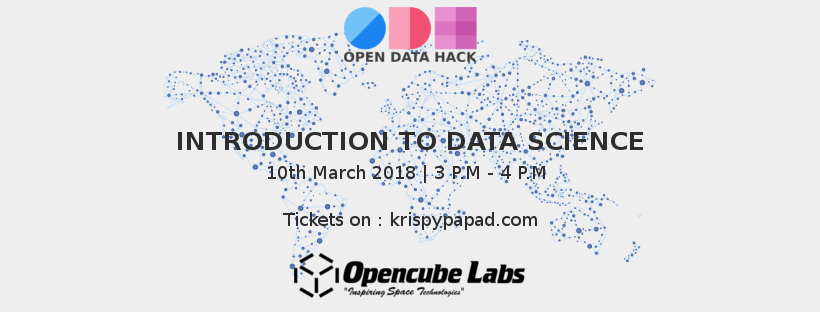
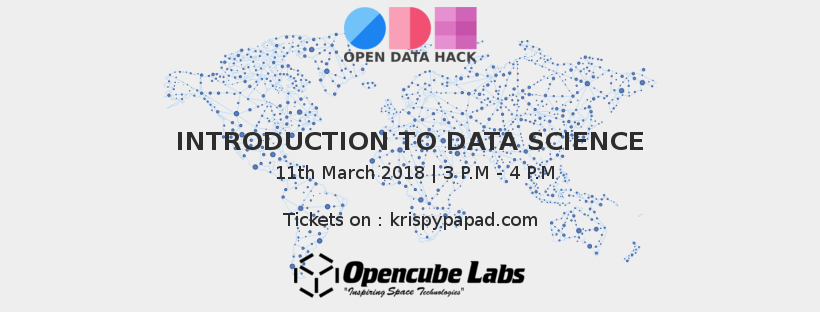
new events added

Changed region(s): [[0.3049, 0.5192, 0.6707, 0.5769]]

diff --git a/templates/ocl-arduino.html b/templates/ocl-arduino.html
@@ -70,7 +70,7 @@
               <div class="card" style="width: 100%;">
                 <div class="card-container" style="border-color: red; border-top: 15px;">
                   <h4><b>Getting started with Arduino</b></h4>
-                  <h4>10th Mar, 2018 | 9 A.M - 12 P.M</h4>
+                  <h4>11th Mar, 2018 | 9 A.M - 12 P.M</h4>
                   <h4><b>Venue :</b> Opencube Labs, Bangalore-24</h4>
                   <h4><b>Price : </b>₹399 onwards</h4>
                   <h4><b>Organiser</b></h4>

diff --git a/templates/odh-data-science-workshop.html b/templates/odh-data-science-workshop.html
@@ -70,7 +70,7 @@
               <div class="card" style="width: 100%;">
                 <div class="card-container" style="border-color: red; border-top: 15px;">
                   <h4><b>Introduction to Data Science</b></h4>
-                  <h4>10th Mar, 2018 | 03 P.M - 06 P.M</h4>
+                  <h4>11th Mar, 2018 | 03 P.M - 06 P.M</h4>
                   <h4><b>Venue :</b> Opencube Labs, Bangalore-24</h4>
                   <h4><b>Price : </b> ₹399</h4>
                   <h4><b>Organiser</b></h4>
